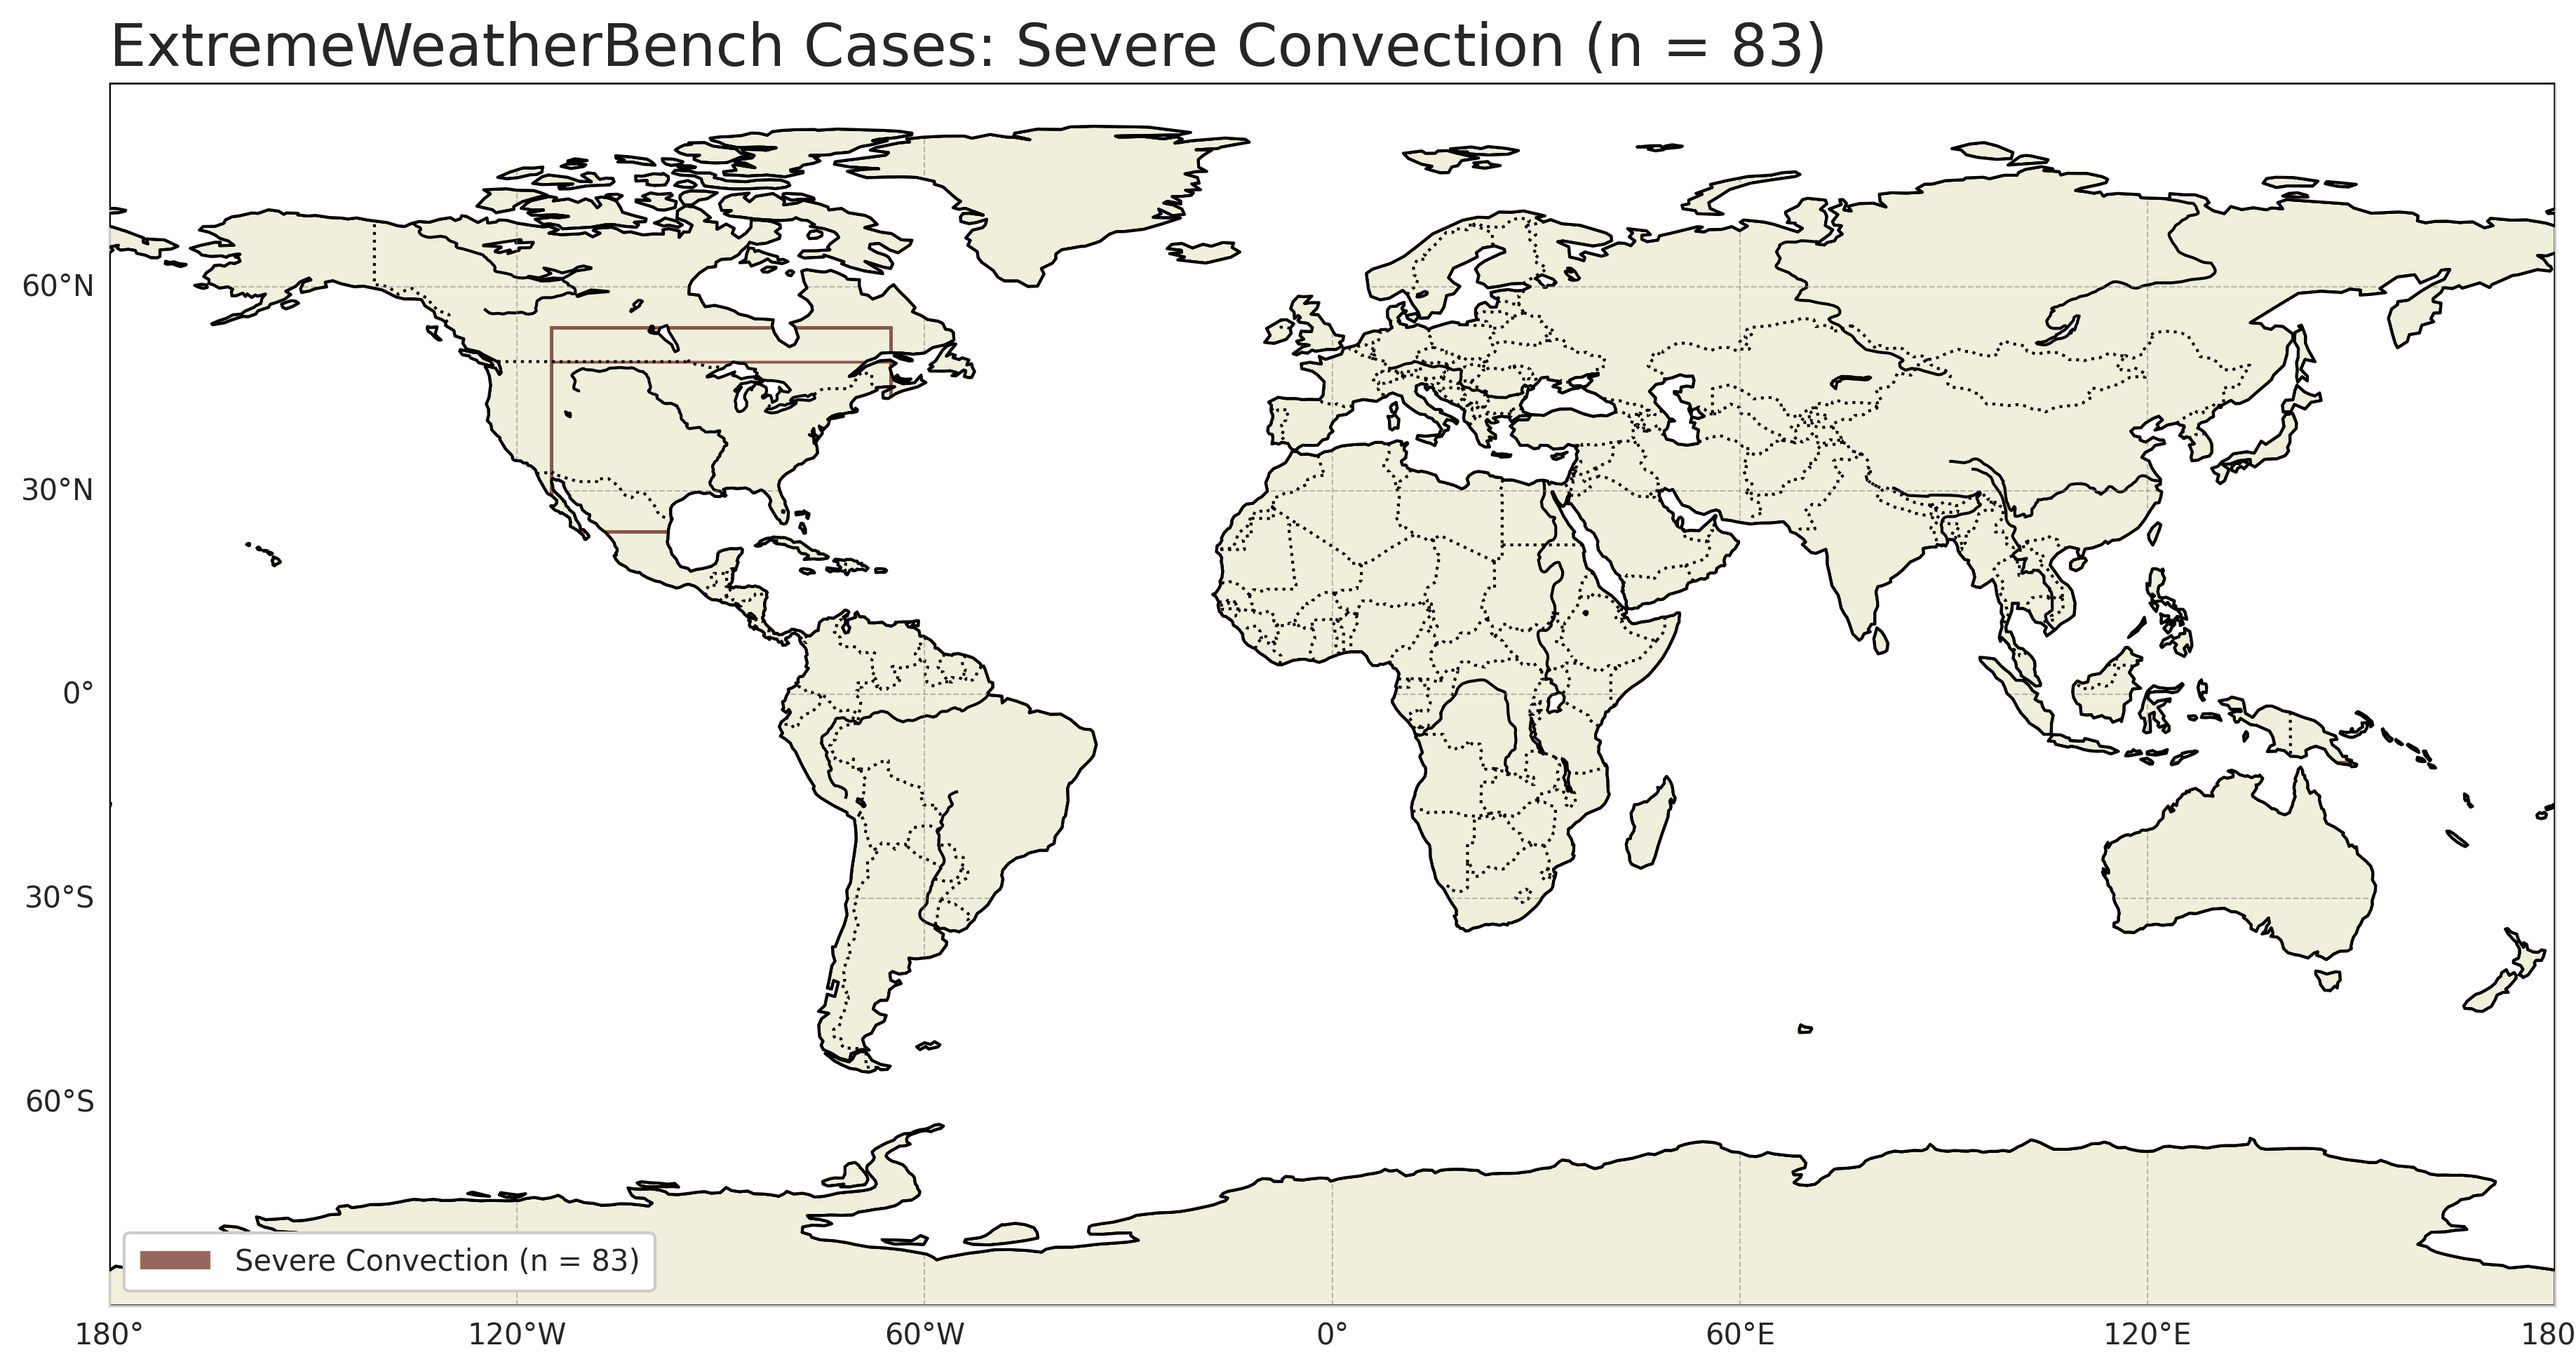
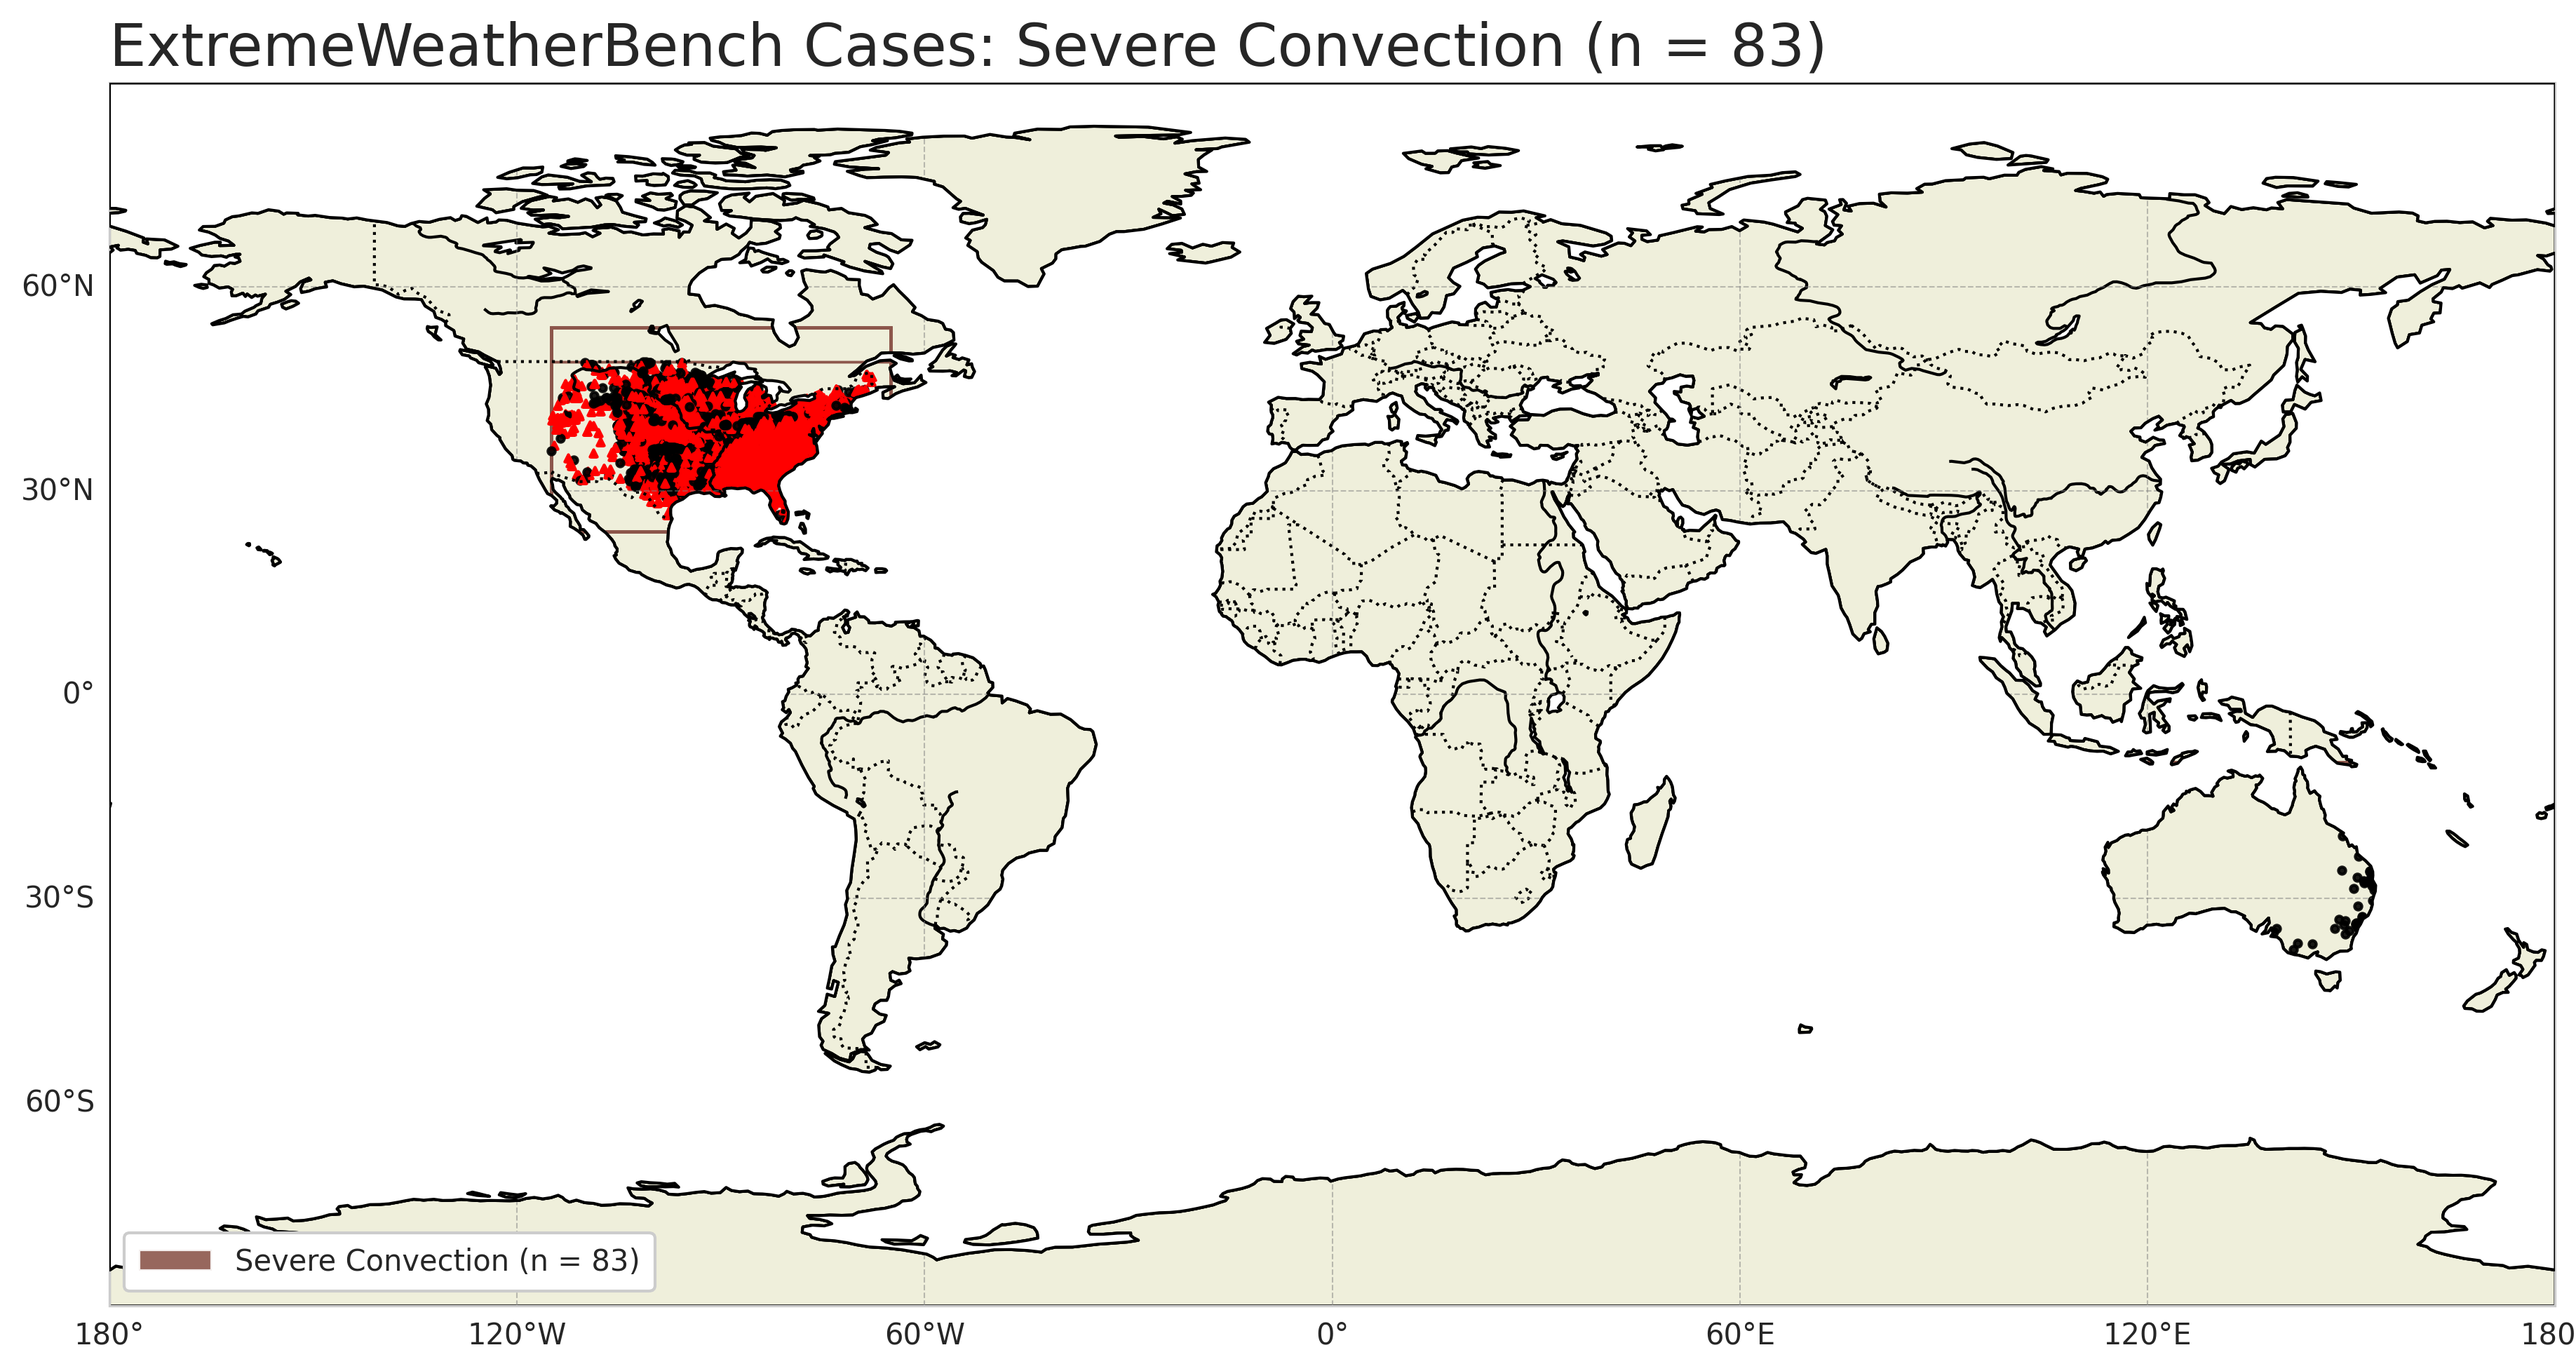
trying to find the missing storms

Changed region(s): [[0.2173, 0.2496, 0.3414, 0.3744], [0.9001, 0.624, 0.9311, 0.6864]]

diff --git a/docs/notebooks/case_plotting.py b/docs/notebooks/case_plotting.py
@@ -303,7 +303,6 @@ def plot_all_cases_and_obs(
     # save the bounding box polygon to subset the counts later
     if bounding_box is not None:
         bounding_box_polygon = get_polygon_from_bounding_box(bounding_box)
-        # plot_polygon(bounding_box_polygon, ax, color='yellow', alpha=0.5)
 
     # Add coastlines and gridlines
     ax.coastlines()
@@ -379,10 +378,9 @@ def plot_all_cases_and_obs(
             indiv_event_type, "gray"
         )  # Default to gray if event type not found
 
-        # check if the case is inside the bounding box
         if bounding_box is not None:
             if not shapely.intersects(
-                indiv_case.location.geopandas.geometry[0], bounding_box_polygon
+                indiv_case.location.as_geopandas().geometry[0], bounding_box_polygon
             ):
                 # print(f"Skipping case {indiv_case.case_id_number} "
                 # f"as it is outside the bounding box.")
